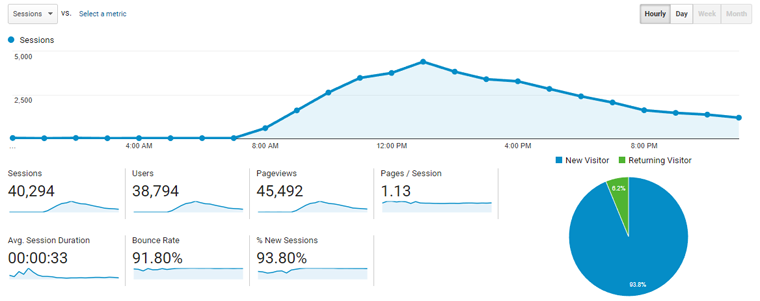
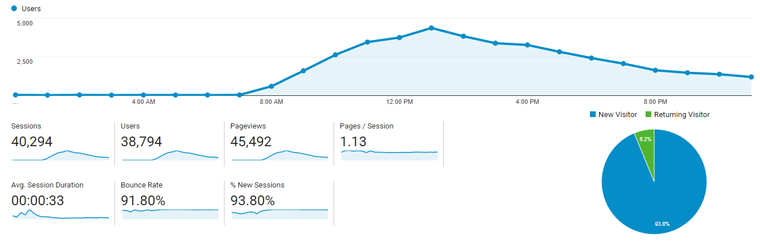
Updating post

diff --git a/_posts/2017-07-08-editor.md b/_posts/2017-07-08-editor.md
@@ -13,13 +13,9 @@ I started this blog in May 2016. I don't mean to brag, but within my first year,
 
 The size of my audience changed a bit in May 2017. The sharp-eyed reader may be able to spot the subtle change in my traffic graphs:
 
-![Blog traffic graphs](/images/2017-07-25-editor/full-traffic-graph.png){: .align-center}
+[![Blog traffic graphs](/images/2017-07-25-editor/full-traffic-graph-sm.png){: .align-center}](/images/2017-07-25-editor/full-traffic-graph.png)
 
-TODO: Change to "users" not "sessions"
-
-As you might notice from the graph, my readership went from "too insignificant to appear in a graph" for almost the entire first year of the blog's existence to to over 9,000 readers per week starting this May. In weeks where I published a new post, this number could reach as high as 50,000.
-
-The month-over-month growth was incredible:
+As you might notice from the graph, my readership went from "too insignificant to appear in a graph" for almost the entire first year of the blog's existence to to over 9,000 readers per week starting this May. In weeks where I published a new post, this number could reach as high as 50,000. My total visitors in June were 450 times higher than they had been two months prior.
 
 | Month | Unique visitors | Growth (one month) | Growth (two months) |
 |----------|--------------------|--------------------------|-----------------------------|
@@ -29,7 +25,7 @@ The month-over-month growth was incredible:
 
 ## What changed?
 
-Just before I went to bed on May 13, 2017, I made [this post](https://www.upwork.com/jobs/~016a16f965a246c00f) to Upwork, a site I use regularly for hiring freelancers. It was a job listing for an editor to give me feedback on my blog. Not a permanent position, just a one-time job to read through my writing and identify weak or incorrect patterns in my writing and suggest improvements.
+Just before I went to bed on May 13, 2017, I made [a job posting](https://www.upwork.com/jobs/~016a16f965a246c00f) to Upwork, a site I use regularly for hiring freelancers. It was a job listing for an editor to give me feedback on my blog. Not a permanent position, just a one-time job to read through my writing and identify weak patterns in my writing and suggest improvements.
 
 [![Job posting for editing position](/images/2017-07-25-editor/editing-job-post-sm.png){: .align-right}](/images/2017-07-25-editor/editing-job-post.png)
 
@@ -48,7 +44,7 @@ Note: Because this whole post is about copy editing and Samantha's work specific
 
 When I publish a blog post and it flops, I don't get good feedback about *why* it flopped. To date, none of my readers have written me to say, "Hey, your sentence structure in that last post was too repetitive, so it prevented me from connecting with the piece."
 
-Writing is a very generalizable skill, useful far beyond writing blog content, much like humor, charm, or archery.
+Even beyond blogging, writing is one of those skills that useful in almost every profession, much like humor, charm, or archery.
 
 {% capture fig_img %}
 ![Colbert with eyebrow raised](/images/2017-07-25-editor/colbert-eyebrow-raise.jpg)
@@ -69,15 +65,11 @@ For me, the most important reason to hire an editor was to give friends,  family
 
 ## Learning from my mistakes
 
-Samntha had plenty of useful feedback for me. Her notes included tons of mistakes I had no idea I was making.
+Samantha had plenty of useful feedback for me. Her notes included tons of mistakes I had no idea I was making.
 
-* I often switched point of view
-	*  e.g. "First, **you** should download this package... Then **we** click this icon."
-* I overused parentheticals (often using them to cram in extra information I didn't feel merited a new sentence)
-* I used a lot of fluff words that didn't add to what I was saying.
-	*  e.g. "I don't **really** like cooking" simplifies to, "I don't like cooking" with better word economy and no loss of clarity.
+As soon as I began reading Samantha's notes, I knew I had made the right decision in hiring an editor. She pointed out several mistakes that I had no idea I was making. Some were small things like omitting commas or overusing parentheticals (often using them to cram in extraneous information that wasn't worth including).
 
-One surprising insight was how frequently I made the assumption that my readers shared my frame of reference. Extremely popular in Manhattan. Not so popular in Wisconsin, where Samantha lives.
+One surprising insight was how frequently I made the assumption that my readers shared my frame of reference. Samantha pointed out that in one post, I mention Seamless without explaining what that is. Seamless is a food delivery service: extremely popular in Manhattan, not so popular in Wisconsin, where Samantha lives. When I mentioned it in the post, I never thought twice about explaining what it was, but Samantha's note made me realize how frequently I was alienating my audience when it would be so easy not to.
 
 ## What are you trying to accomplish with this story?
 
@@ -91,11 +83,13 @@ After letting the suggestion roll around my head for a few days, I thought, "Why
 
 ## Telling it like a story
 
-A few weeks later, I was browsing reddit when I saw a user post an "almost correct" version of their password I realized that this could be one of those "stories" that Samantha had been telling me about.
+A few weeks later, I was browsing reddit when I saw a user post an *almost correct* version of the password that protected their cryptocurrency holdings. I figured out an interesting way of reconstructing their correct password and used it to steal their money. Don't worry, I gave it back.
 
-I wrote the post 
+I felt that people would be interested in the technique I used, and I started thinking about how I could write about it for my blog. Then it hit me: this could be one of those "stories" that Samantha had been telling me about.
 
-By the end of the day, it was most upvoted story of all time on both [/r/siacoin](https://www.reddit.com/r/Siacoin/top/) and [/r/cryptocurrency](https://www.reddit.com/r/CryptoCurrency/top/) (though a few days later, I was shamefully bumped from the #1 spot on /r/CryptoCurrency by [a picture of a sign](https://www.reddit.com/r/CryptoCurrency/comments/6i5ibl/its_happening/). It also made it to the front page of Hacker News, a popular link-sharing site for tech enthusiasts.
+I wrote the post in a continuous four-hour sprint. I had never had so much fun writing a blog post. It was silly and self-effacing and included tongue-in-cheek pop culture references — all attributes that my previous blog posts were missing. I thought presenting it in story format might make it more compelling to read, but I hadn't anticipated how much easier it made the article to write.
+
+The next morning, I published the article, ["How I Stole Your Siacoin,"](/stole-siacoins/) and posted the link to [reddit](https://reddit.com) and [Hacker News](https://news.ycombinator.com/), two popular link-sharing sites. By the end of the day, it was most upvoted story of all time on two of reddit's subforums, [/r/siacoin](https://www.reddit.com/r/Siacoin/top/) and [/r/cryptocurrency](https://www.reddit.com/r/CryptoCurrency/top/) (though a few days later, I was shamefully bumped from the #1 spot on /r/CryptoCurrency by [a picture of a sign](https://www.reddit.com/r/CryptoCurrency/comments/6i5ibl/its_happening/). It had also gained enough traction on Hacker News to make it to their front page, an esteemed spot for tech bloggers.
 
 {% capture fig_img %}
 [![Visitor stats for How I Stole Your Siacoin post](/images/2017-07-25-editor/stole-siacoin-stats-sm.png)](/images/2017-07-25-editor/stole-siacoin-stats.png)
@@ -125,10 +119,30 @@ Positive comments on the post's writing style — creating this collage does not
   <figcaption>{{ fig_caption | markdownify | remove: "<p>" | remove: "</p>" }}</figcaption>
 </figure>
 
-I didn't recall seeing this in comments on other blog posts, though it should be noted that I don't recognize praise unless it's directed at me.
+I browse reddit a lot and I don't recall seeing comments about the *style* of writing on a reddit submission — though it should be noted that I don't recognize praise unless it's directed at me.
 
-The feedback seemed like such clear validation of my decision to hire an editor that I almost had to wonder if Samantha was surreptitiously posting these comments herself through different accounts she controlled. *[Editor's note: There is no evidence to support this allegation.]*
+The feedback seemed like such clear validation of my decision to hire an editor that I almost had to wonder if Samantha was surreptitiously posting these comments herself. *[**Editor's note**: There is no evidence to support this allegation.]*
 
+
+## Before and after
+
+But that's just one post. That could be a fluke. If I compare the numbers for the three articles I wrote before working with Samantha to the three that I wrote after, the difference is clear. It's important to note that of the three articles I wrote after working with Samantha, she only edited the GreenPiThumb post. The rest I wrote on my own, but with the benefit of what Samantha had taught me.
+
+### Before working with an editor
+
+| Article | Readers (First 24 hours) | Readers (First 30 days) |
+|-------|-------------------------------|------------------------------|
+| ["Automated Prosper Investing with ProsperBot"](/prosperbot/) | 21 | 95 |
+| ["Adventures in Outsourcing: Cooking with TaskRabbit"](/taskrabbit-cooking/) | 15 | 88 |
+| ["Building a Homelab VM Server"](/building-a-vm-homelab/) | 414 | 1,103 |
+
+### After working with an editor
+
+| Article | Readers (First 24 hours) | Readers (First 30 days) |
+|-------|-------------------------------|------------------------------|
+| ["A Beginner’s Guide to Mining Siacoin"](/windows-sia-mining/) | 709 | 27,871 |
+| ["How I Stole Your Siacoin"](/stole-siacoins/)  | 38,808 | 62,425 |
+| ["GreenPiThumb: A Raspberry Pi Gardening Bot"](/greenpithumb/) | 27,908 | 38,257 (and counting)  |
 
 ## Read it aloud
 
@@ -144,7 +158,7 @@ TODO: Find article explaining the science
 
 You don't have to do everything your copy editor tells you to do.
 
-*[Editor's note: Ignore this section]*
+*[**Editor's note**: Ignore this section]*
 
 There was one line in 
 
